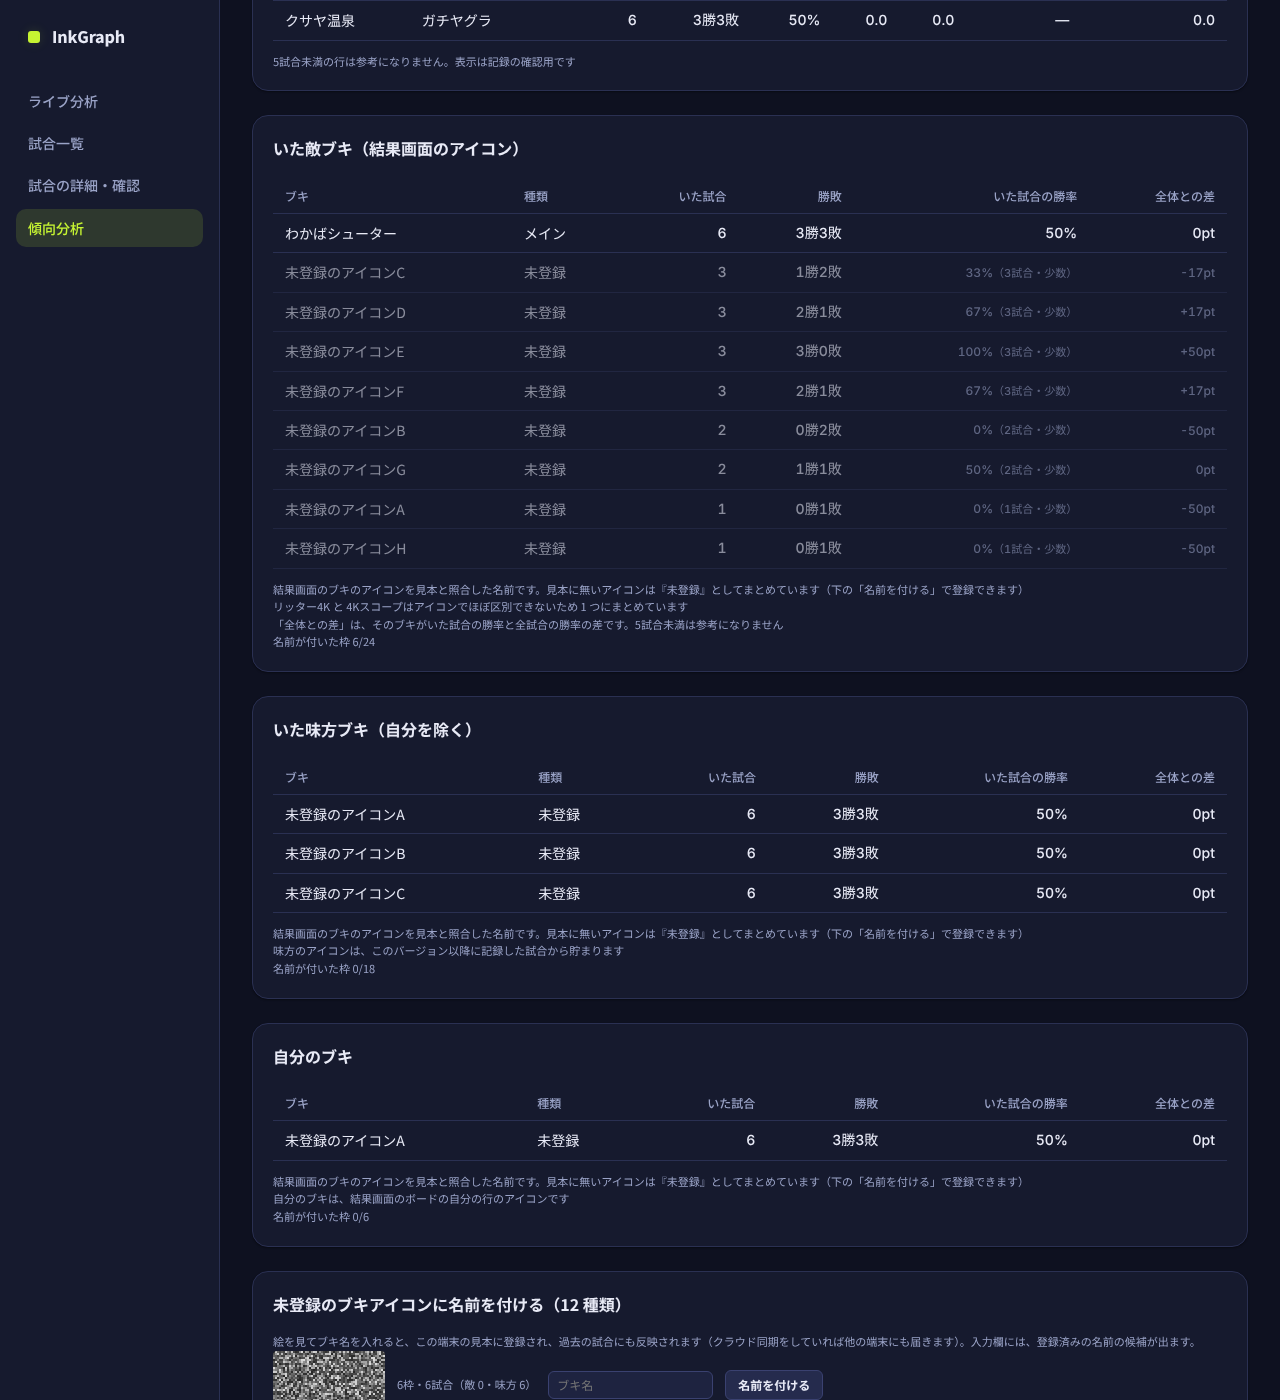
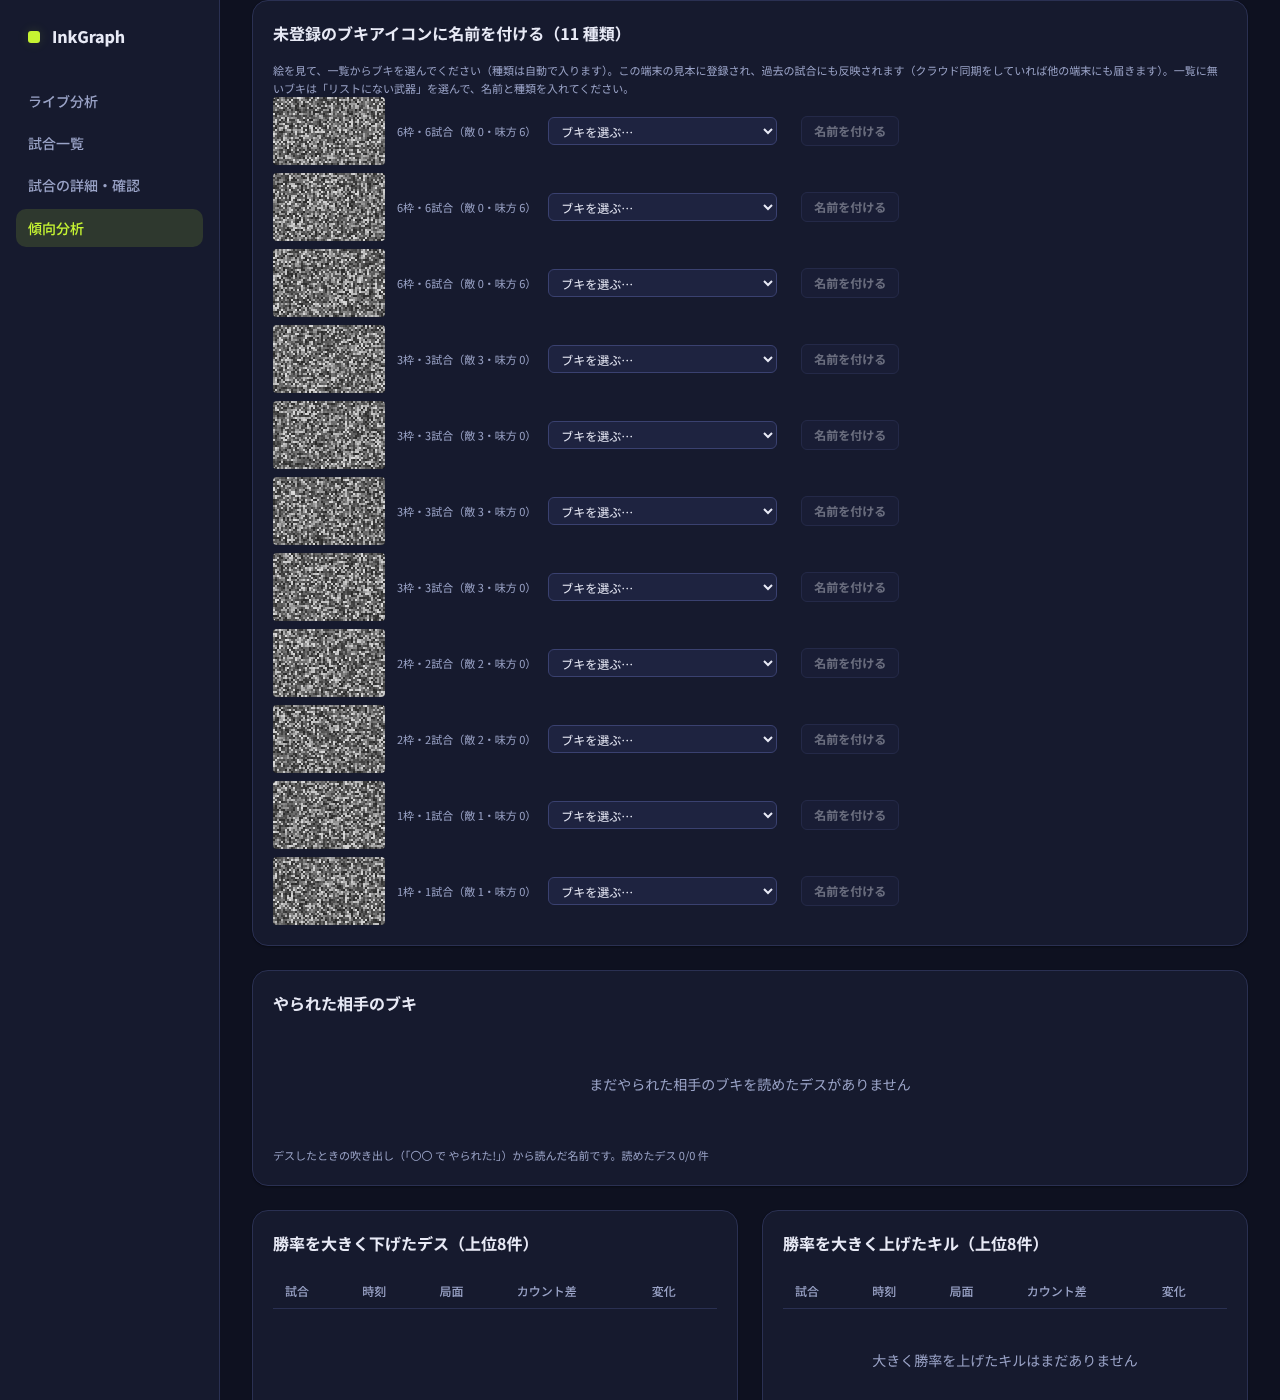
D66: 未登録アイコンの名前付けを一覧から選ぶ形にし、ブキの種類を自動で入れる
Claude-Session: https://claude.ai/code/session_018zsqgbHNLDpb8cVTBpk5SR

diff --git a/web/src/main.js b/web/src/main.js
@@ -18,6 +18,7 @@ import { recountDiff } from './core/live_counts.js';
 import * as DP from './detect_params.js';
 import * as Cloud from './cloud/index.js';
 import * as WL from './weapon_lib.js';
+import { WEAPON_TYPES, UNCLASSIFIED, typeOfWeapon, weaponOptions } from './core/weapons.js';
 import { TUNABLE } from './core/tuning.js';
 
 const app = document.getElementById('app');
@@ -2823,12 +2824,13 @@ PAGES.trend = async () => {
   };
 
   const enemyIconLib = WL.combinedLib(await getEnemyIconLib()); // 静的な見本＋この端末で名前を付けた見本（D65）
+  const userTypeMap = WL.userTypes();
   // D65: 結果画面ボードのブキアイコン（敵・味方・自分）から「そのブキがいた試合」の勝敗を出す。武器別。全体の勝率との差が小さい（負けやすい）順に見られるよう「全体との差」を付ける
   const presenceCard = (title, stats, noteLines) => {
     const noteHtml = `<div class="trend-stage-note trend-weapon-note" style="margin-top:var(--sp-3);font-size:var(--fs-xs);color:var(--text-muted)">${noteLines.map(l => `<div>${l}</div>`).join('')}<div>名前が付いた枠 ${stats.namedSlots}/${stats.totalSlots}</div></div>`;
     if (stats.withIcons === 0) return `<div class="card trend-weapon-card trend-presence-card" style="margin-bottom:var(--sp-6)"><div class="card-title">${esc(title)}</div><div class="empty-state"><p class="muted">まだ結果画面のアイコンを保存した試合がありません</p></div>${noteHtml}</div>`;
     const rowsHtml = stats.rows.map(r => {
-      const kindLabel = PRESENCE_KIND_LABEL[r.kind] || r.kind || '—';
+      const kindLabel = r.kind === 'main' ? typeOfWeapon(r.name, userTypeMap) : (PRESENCE_KIND_LABEL[r.kind] || r.kind || '—'); // 種類（シューター等）は名前から自動で入る（D66）
       const winRateCell = r.low ? `${pct(r.winRate)}<span class="trend-weapon-low-note">（${r.matches}試合・少数）</span>` : pct(r.winRate);
       const dl = r.delta === null || r.delta === undefined ? '—' : `${r.delta > 0 ? '+' : ''}${Math.round(r.delta * 100)}pt`;
       return `<tr class="${r.low ? 'trend-stage-low' : ''}"><td>${esc(r.name)}</td><td>${esc(kindLabel)}</td><td class="num">${r.matches}</td><td class="num">${r.wins}勝${r.losses}敗</td><td class="num ${r.low ? 'muted' : ''}">${winRateCell}</td><td class="num ${r.low ? 'muted' : (r.delta < 0 ? 'neg' : '')}" ${r.delta !== null && r.delta < 0 && !r.low ? 'style="color:var(--lose)"' : ''}>${dl}</td></tr>`;
@@ -2845,15 +2847,18 @@ PAGES.trend = async () => {
     + presenceCard('自分のブキ', ownStats, NOTE_COMMON.slice(0, 1).concat(['自分のブキは、結果画面のボードの自分の行のアイコンです']));
   // 未登録のアイコンに名前を付ける
   const unknownGroups = unknownIconGroups(filtered, enemyIconLib);
-  const nameSuggest = [...new Set([...(await getWeaponNames()), ...WL.loadUserLib().items.map(x => x.name)])].sort((a, b) => a.localeCompare(b, 'ja'));
+  const opts = weaponOptions(await getWeaponNames(), userTypeMap);
+  const optionsHtml = [...WEAPON_TYPES, UNCLASSIFIED].filter(t => opts[t].length).map(t => `<optgroup label="${esc(t)}">${[...opts[t]].sort((x, y) => x.localeCompare(y, 'ja')).map(n => `<option value="${esc(n)}">${esc(n)}</option>`).join('')}</optgroup>`).join('');
   const namingCardHtml = unknownGroups.length === 0 ? '' : `<div class="card trend-weapon-card" id="weapon-naming" style="margin-bottom:var(--sp-6)"><div class="card-title">未登録のブキアイコンに名前を付ける（${unknownGroups.length} 種類）</div>
-      <p class="muted" style="font-size:var(--fs-xs)">絵を見てブキ名を入れると、この端末の見本に登録され、過去の試合にも反映されます（クラウド同期をしていれば他の端末にも届きます）。入力欄には、登録済みの名前の候補が出ます。</p>
-      <datalist id="weapon-names">${nameSuggest.map(n => `<option value="${esc(n)}">`).join('')}</datalist>
+      <p class="muted" style="font-size:var(--fs-xs)">絵を見て、一覧からブキを選んでください（種類は自動で入ります）。この端末の見本に登録され、過去の試合にも反映されます（クラウド同期をしていれば他の端末にも届きます）。一覧に無いブキは「リストにない武器」を選んで、名前と種類を入れてください。</p>
       <div class="weapon-naming-list" style="display:flex;flex-direction:column;gap:var(--sp-2)">${unknownGroups.slice(0, 30).map((g, i) => `<div class="weapon-naming-row" data-i="${i}" style="display:flex;align-items:center;gap:var(--sp-3);flex-wrap:wrap">
         <canvas class="weapon-icon-canvas" width="112" height="68" data-icon="${esc(g.rep)}" style="background:#000;border-radius:4px"></canvas>
         <span class="muted" style="font-size:var(--fs-xs)">${g.slots}枠・${g.matches}試合（敵 ${g.side.enemy}・味方 ${g.side.ally}）</span>
-        <input class="input-sm weapon-name-input" list="weapon-names" placeholder="ブキ名" size="22">
-        <button class="btn btn-sm weapon-name-save" type="button">名前を付ける</button></div>`).join('')}</div>${unknownGroups.length > 30 ? '<p class="muted" style="font-size:var(--fs-xs)">多い順に 30 種類まで出しています。名前を付けると次が出ます。</p>' : ''}</div>`;
+        <select class="input-sm weapon-name-select" style="min-width:200px"><option value="">ブキを選ぶ…</option>${optionsHtml}<option value="__custom__">リストにない武器…</option></select>
+        <span class="weapon-custom" hidden style="display:none;gap:var(--sp-2);align-items:center"><input class="input-sm weapon-name-input" placeholder="ブキ名" size="18"><select class="input-sm weapon-type-select">${[...WEAPON_TYPES, UNCLASSIFIED].map(t => `<option value="${esc(t)}">${esc(t)}</option>`).join('')}</select></span>
+        <span class="weapon-type-auto muted" style="font-size:var(--fs-xs)"></span>
+        <button class="btn btn-sm weapon-name-save" type="button" disabled>名前を付ける</button>
+      </div>`).join('')}</div>${unknownGroups.length > 30 ? '<p class="muted" style="font-size:var(--fs-xs)">多い順に 30 種類まで出しています。名前を付けると次が出ます。</p>' : ''}</div>`;
 
   const WEAPON_KIND_LABEL = {
     main: 'メイン',
@@ -3197,12 +3202,12 @@ PAGES.trend = async () => {
     const tmp = document.createElement('canvas'); tmp.width = 56; tmp.height = 34; tmp.getContext('2d').putImageData(im, 0, 0);
     ctx.imageSmoothingEnabled = false; ctx.drawImage(tmp, 0, 0, 112, 68);
   });
-  page.querySelectorAll('.weapon-name-save').forEach(btn => {
-    btn.onclick = () => {
-      const row = btn.closest('.weapon-naming-row'), name = $('.weapon-name-input', row).value.trim(); if (!name) return;
-      const g = unknownGroups[+row.dataset.i], mates = [g.rep];
-      WL.addNamed(name, mates); PAGES.trend();
-    };
+  page.querySelectorAll('.weapon-naming-row').forEach(row => {
+    const sel = $('.weapon-name-select', row), custom = $('.weapon-custom', row), inp = $('.weapon-name-input', row), tsel = $('.weapon-type-select', row), auto = $('.weapon-type-auto', row), btn = $('.weapon-name-save', row);
+    const current = () => (sel.value === '__custom__' ? { name: inp.value.trim(), type: tsel.value } : { name: sel.value, type: sel.value ? typeOfWeapon(sel.value, userTypeMap) : '' });
+    const refresh = () => { const isC = sel.value === '__custom__'; custom.style.display = isC ? 'inline-flex' : 'none'; const c = current(); auto.textContent = !isC && c.name ? `種類: ${c.type}` : ''; btn.disabled = !c.name; };
+    sel.onchange = refresh; inp.oninput = refresh; tsel.onchange = refresh;
+    btn.onclick = () => { const c = current(); if (!c.name) return; const g = unknownGroups[+row.dataset.i]; WL.addNamed(c.name, [g.rep], c.type !== UNCLASSIFIED ? c.type : null); PAGES.trend(); };
   });
 
   page.querySelectorAll('.wp-dot, .click-match').forEach(el => {

diff --git a/web/src/core/weapons.js b/web/src/core/weapons.js
@@ -1,0 +1,38 @@
+// D66: ブキの名前と、ブキの種類（シューター・ブラスター…）の対応。未登録アイコンに名前を付けるとき、一覧から選ぶと種類が自動で入る。
+// 名前は初期データ（スプラトゥーン3 のメインブキの代表的な表記）。実際の表記と違う・足りないものは、ここを直す／画面の「リストにない武器」で足せる。
+export const WEAPON_TYPES = ['シューター', 'ブラスター', 'ローラー', 'フデ', 'チャージャー', 'スロッシャー', 'スピナー', 'マニューバー', 'シェルター', 'ストリンガー', 'ワイパー'];
+export const WEAPONS = {
+  シューター: ['ヒーローシューター レプリカ', 'わかばシューター', 'もみじシューター', 'スプラシューター', 'スプラシューターコラボ', '.52ガロン', '.52ガロンデコ', '.96ガロン', '.96ガロンデコ', 'N-ZAP85', 'N-ZAP89', 'N-ZAP83',
+    'ジェットスイーパー', 'ジェットスイーパーカスタム', 'プライムシューター', 'プライムシューターコラボ', 'プライムシューターFRZN', 'プロモデラーMG', 'プロモデラーRG', 'プロモデラーPG', 'ボールドマーカー', 'ボールドマーカーネオ', 'ボールドマーカー7',
+    'シャープマーカー', 'シャープマーカーネオ', 'シャープマーカーGECK', 'L3リールガン', 'L3リールガンD', 'H3リールガン', 'H3リールガンD', 'H3リールガンチェリー', 'ボトルガイザー', 'ボトルガイザーフォイル', 'スペースシューター', 'スペースシューターコラボ'],
+  ブラスター: ['ホットブラスター', 'ホットブラスターカスタム', 'ロングブラスター', 'ロングブラスターカスタム', 'クラッシュブラスター', 'クラッシュブラスターネオ', 'ラピッドブラスター', 'ラピッドブラスターデコ', 'Rブラスターエリート', 'Rブラスターエリートデコ', 'Rブラスターエリート WNTR', 'ノヴァブラスター', 'ノヴァブラスターネオ', 'S-BLAST92', 'S-BLAST91'],
+  ローラー: ['スプラローラー', 'スプラローラーコラボ', 'カーボンローラー', 'カーボンローラーデコ', 'ダイナモローラー', 'ダイナモローラーテスラ', 'ヴァリアブルローラー', 'ヴァリアブルローラーフォイル', 'ワイドローラー', 'ワイドローラーコラボ'],
+  フデ: ['パブロ', 'パブロ・ヒュー', 'ホクサイ', 'ホクサイ・ヒュー', 'フィンセント', 'フィンセント・ヒュー'],
+  チャージャー: ['スプラチャージャー', 'スプラチャージャーコラボ', 'スプラスコープ', 'スプラスコープコラボ', 'スクイックリンα', 'スクイックリンβ', 'リッター4K', 'リッター4Kカスタム', '4Kスコープ', '4Kスコープカスタム', '14式竹筒銃・甲', '14式竹筒銃・乙', 'ソイチューバー', 'ソイチューバーカスタム', 'R-PEN/5H', 'R-PEN/5B'],
+  スロッシャー: ['バケットスロッシャー', 'バケットスロッシャーデコ', 'ヒッセン', 'ヒッセン・ヒュー', 'スクリュースロッシャー', 'スクリュースロッシャーネオ', 'オーバーフロッシャー', 'オーバーフロッシャーデコ', 'エクスプロッシャー', 'エクスプロッシャーカスタム', 'モップリン', 'モップリンD', 'モップリンカスタム'],
+  スピナー: ['スプラスピナー', 'スプラスピナーコラボ', 'バレルスピナー', 'バレルスピナーデコ', 'ハイドラント', 'ハイドラントカスタム', 'クーゲルシュライバー', 'クーゲルシュライバー・ヒュー', 'ノーチラス47', 'ノーチラス79', 'イグザミナー', 'イグザミナー・ヒュー'],
+  マニューバー: ['スパッタリー', 'スパッタリー・ヒュー', 'スプラマニューバー', 'スプラマニューバーコラボ', 'ケルビン525', 'ケルビン525デコ', 'デュアルスイーパー', 'デュアルスイーパーカスタム', 'クアッドホッパーブラック', 'クアッドホッパーホワイト', 'ガエンFF', 'ガエンFFカスタム'],
+  シェルター: ['パラシェルター', 'パラシェルターソレーラ', 'キャンピングシェルター', 'キャンピングシェルターソレーラ', 'スパイガジェット', 'スパイガジェットソレーラ', '24式張替傘・甲', '24式張替傘・乙'],
+  ストリンガー: ['トライストリンガー', 'トライストリンガーコラボ', 'LACT-450', 'LACT-450デコ', 'フルイドV', 'フルイドVカスタム'],
+  ワイパー: ['ジムワイパー', 'ジムワイパー・ヒュー', 'ドライブワイパー', 'ドライブワイパーデコ', 'デンタルワイパーミント', 'デンタルワイパースミ'],
+};
+export const UNCLASSIFIED = '未分類';
+const BY_NAME = new Map(); for (const [t, names] of Object.entries(WEAPONS)) for (const n of names) BY_NAME.set(n, t);
+// 名前に種類が入っているブキ（…ブラスター、…ローラー など）は、一覧に無くても種類を推定する
+const HINTS = [[/ブラスター|S-BLAST/, 'ブラスター'], [/ローラー/, 'ローラー'], [/チャージャー|スコープ|リッター|4K|竹筒銃|ソイチューバー|スクイックリン|R-PEN/, 'チャージャー'], [/スロッシャー|ヒッセン|エクスプロッシャー|モップリン/, 'スロッシャー'],
+  [/スピナー|ハイドラント|クーゲル|ノーチラス|イグザミナー/, 'スピナー'], [/マニューバー|スパッタリー|ケルビン|デュアルスイーパー|クアッドホッパー|ガエン/, 'マニューバー'], [/シェルター|スパイガジェット|張替傘/, 'シェルター'], [/ストリンガー|LACT|フルイド/, 'ストリンガー'],
+  [/ワイパー/, 'ワイパー'], [/パブロ|ホクサイ|フィンセント/, 'フデ'], [/シューター|ガロン|N-ZAP|ジェットスイーパー|プロモデラー|マーカー|リールガン|ボトルガイザー/, 'シューター']];
+/** ブキ名 → 種類。一覧に無ければ名前から推定し、それも無ければ extra（この端末で付けた種類 {名前: 種類}）、最後は「未分類」 */
+export function typeOfWeapon(name, extra = {}) {
+  if (!name) return UNCLASSIFIED;
+  if (BY_NAME.has(name)) return BY_NAME.get(name);
+  if (extra && extra[name]) return extra[name];
+  for (const [re, t] of HINTS) if (re.test(name)) return t;
+  return UNCLASSIFIED;
+}
+/** 選択肢（種類ごとのブキ名）。観測した名前（実際のゲームから読んだ名前）と、この端末で足した名前も、種類のところに混ぜる */
+export function weaponOptions(observed = [], extra = {}) {
+  const out = Object.fromEntries(WEAPON_TYPES.map(t => [t, [...WEAPONS[t]]])); out[UNCLASSIFIED] = [];
+  for (const n of [...new Set([...observed, ...Object.keys(extra)])]) { const t = typeOfWeapon(n, extra); if (!out[t].includes(n)) out[t].push(n); }
+  return out;
+}

diff --git a/web/src/weapon_lib.js b/web/src/weapon_lib.js
@@ -6,12 +6,14 @@ const KEY = 'inkgraph.weaponLib';
 export const loadUserLib = () => { try { const j = JSON.parse(localStorage.getItem(KEY) || 'null'); return j && j.v === 1 && Array.isArray(j.items) ? j : { v: 1, items: [] }; } catch { return { v: 1, items: [] }; } };
 const save = j => { try { localStorage.setItem(KEY, JSON.stringify(j)); window.dispatchEvent(new CustomEvent('inkgraph:dirty')); return true; } catch { return false; } };
 /** 名前を付けたアイコンを追加する（同じ絵・同じ名前は重ねない）。戻り値: 追加した数 */
-export function addNamed(name, icons) {
+export function addNamed(name, icons, type = null) {
   const n = String(name || '').trim(); if (!n) return 0;
   const j = loadUserLib(); let added = 0;
-  for (const icon of icons) if (icon && !j.items.some(x => x.icon === icon && x.name === n)) { j.items.push({ name: n, icon, at: new Date().toISOString() }); added++; }
+  for (const icon of icons) if (icon && !j.items.some(x => x.icon === icon && x.name === n)) { j.items.push({ name: n, icon, ...(type ? { type } : {}), at: new Date().toISOString() }); added++; }
   if (added) save(j); return added;
 }
+/** この端末で付けた名前の種類 {名前: 種類}（一覧に無いブキを足したときの種類） */
+export function userTypes() { const o = {}; for (const x of loadUserLib().items) if (x.type) o[x.name] = x.type; return o; }
 export function removeByName(name) { const j = loadUserLib(); const k = j.items.length; j.items = j.items.filter(x => x.name !== name); if (j.items.length !== k) save(j); return k - j.items.length; }
 /** 2 つの見本の和集合（名前＋絵が同じなら 1 つ）。同期で別の端末のものを足すとき用 */
 export function unionItems(a, b) { const out = [...a]; for (const x of b) if (!out.some(y => y.icon === x.icon && y.name === x.name)) out.push(x); return out; }

diff --git a/docs/DECISIONS.md b/docs/DECISIONS.md
@@ -771,3 +771,10 @@
 - 同期：名前を付けた見本は、クラウド同期（D58）の設定（`inkgraph_settings.data.weaponLib`）に含め、端末とクラウドの**和集合**にそろえる（名前＋絵が同じなら 1 つ）。別々の端末で付けた名前が、両方に届く。
 - 検証：`web/tools/weapon_stats_check.mjs`（純関数 7 件：敵・味方・自分の勝敗と全体との差、味方保存前の試合の扱い、未登録のまとめ、名前が付いた絵を除く／実ブラウザ 5 件：一覧・絵の描画・名前を付けて見本に登録・過去の試合への反映・3 つの表、計 12 件 ALL PASS）、`cloud_sync_check`（見本の和集合・重ねない、計 26 件 ALL PASS）。既存の `enemy_icon_check`・`trends_filter_check`・`result_missing_check`・`special_states_check`・`cloud_ui_check`・`mobile_list_check` も PASS。実映像（味方のアイコンを実際に保存する）での確認は未。
 - 今後：見本が貯まったら、見分けの精度を上げる分類器の学習（D60 の学習用画像の流れ）。名前の自動付け（デスカメ由来の名付けを JS に移す、D48 の「今後」）。試合数が貯まってからの分析（組み合わせ・ブキの種類別）。
+
+## D66 (2026-10-26) 未登録アイコンの名前付けを一覧から選ぶ形にし、ブキの種類を自動で入れる（D65 の変更）
+- 文字入力をやめ、**一覧からブキを選ぶ**形にした。選択肢は種類（シューター・ブラスター・ローラー・フデ・チャージャー・スロッシャー・スピナー・マニューバー・シェルター・ストリンガー・ワイパー・未分類）ごとにまとめ（`<optgroup>`）、ブキを選ぶと**種類が自動で入る**。ブキを選ぶまで「名前を付ける」は押せない。一覧に無いブキは「リストにない武器…」を選び、名前と種類だけを入れる（その種類は見本に保存され、次からは選択肢に出る）。
+- 新規 `web/src/core/weapons.js`：`WEAPON_TYPES`（11 種）・`WEAPONS`（種類 → ブキ名の一覧。スプラトゥーン3 のメインブキの代表的な表記で、初期データ）・`typeOfWeapon(名前, 端末の種類)`（一覧 → 名前からの推定（…ブラスター・…ローラー・…チャージャー・…スロッシャー・…スピナー・…マニューバー・…シェルター・…ストリンガー・…ワイパー・パブロ/ホクサイ/フィンセント など）→ 端末で付けた種類 → 未分類）・`weaponOptions`（実際のゲームから読んだ名前も、種類のところに混ぜる）。**ブキ名の一覧は私が作った初期データなので、実際の表記と違う・足りないものがあり得る**。その場合は `WEAPONS` を直すか、画面の「リストにない武器」で足す。
+- 保存：見本に `type` を持たせた（`weapon_lib.js` の `addNamed(名前, 絵, 種類)`、`userTypes()`）。クラウド同期（D58）の見本の和集合は名前＋絵で判定するので、種類つきでもそのまま動く。
+- 表示：「いた敵ブキ／味方ブキ／自分のブキ」の表の「種類」の列を、従来の「メイン」から、ブキの種類（シューター等）に変えた（未登録の行は「未登録」のまま）。
+- 検証：`web/tools/weapon_stats_check.mjs` を更新（種類の決まり方 4 件の単体、選ぶまでボタンが押せない・選ぶと種類が自動で入る・リストにない武器（名前＋種類）・表の「種類」の列、計 17 件 ALL PASS）。`enemy_icon_check`・`trends_filter_check`・`cloud_ui_check`・`mobile_list_check`・`cloud_sync_check` も PASS。
